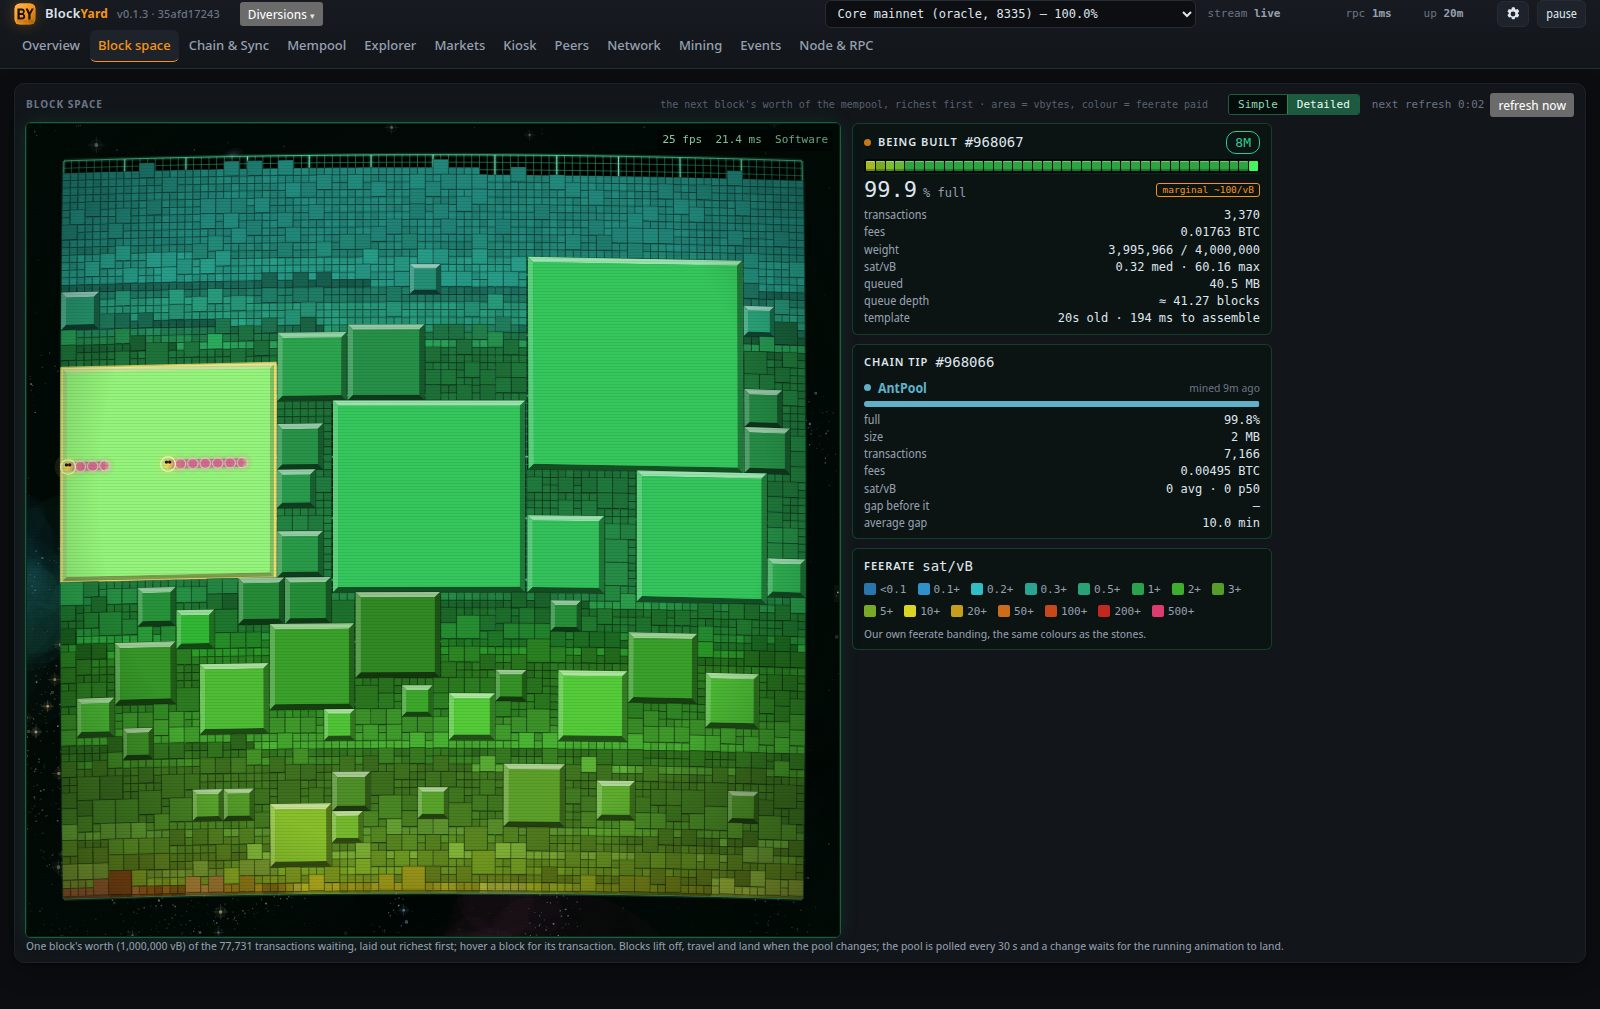
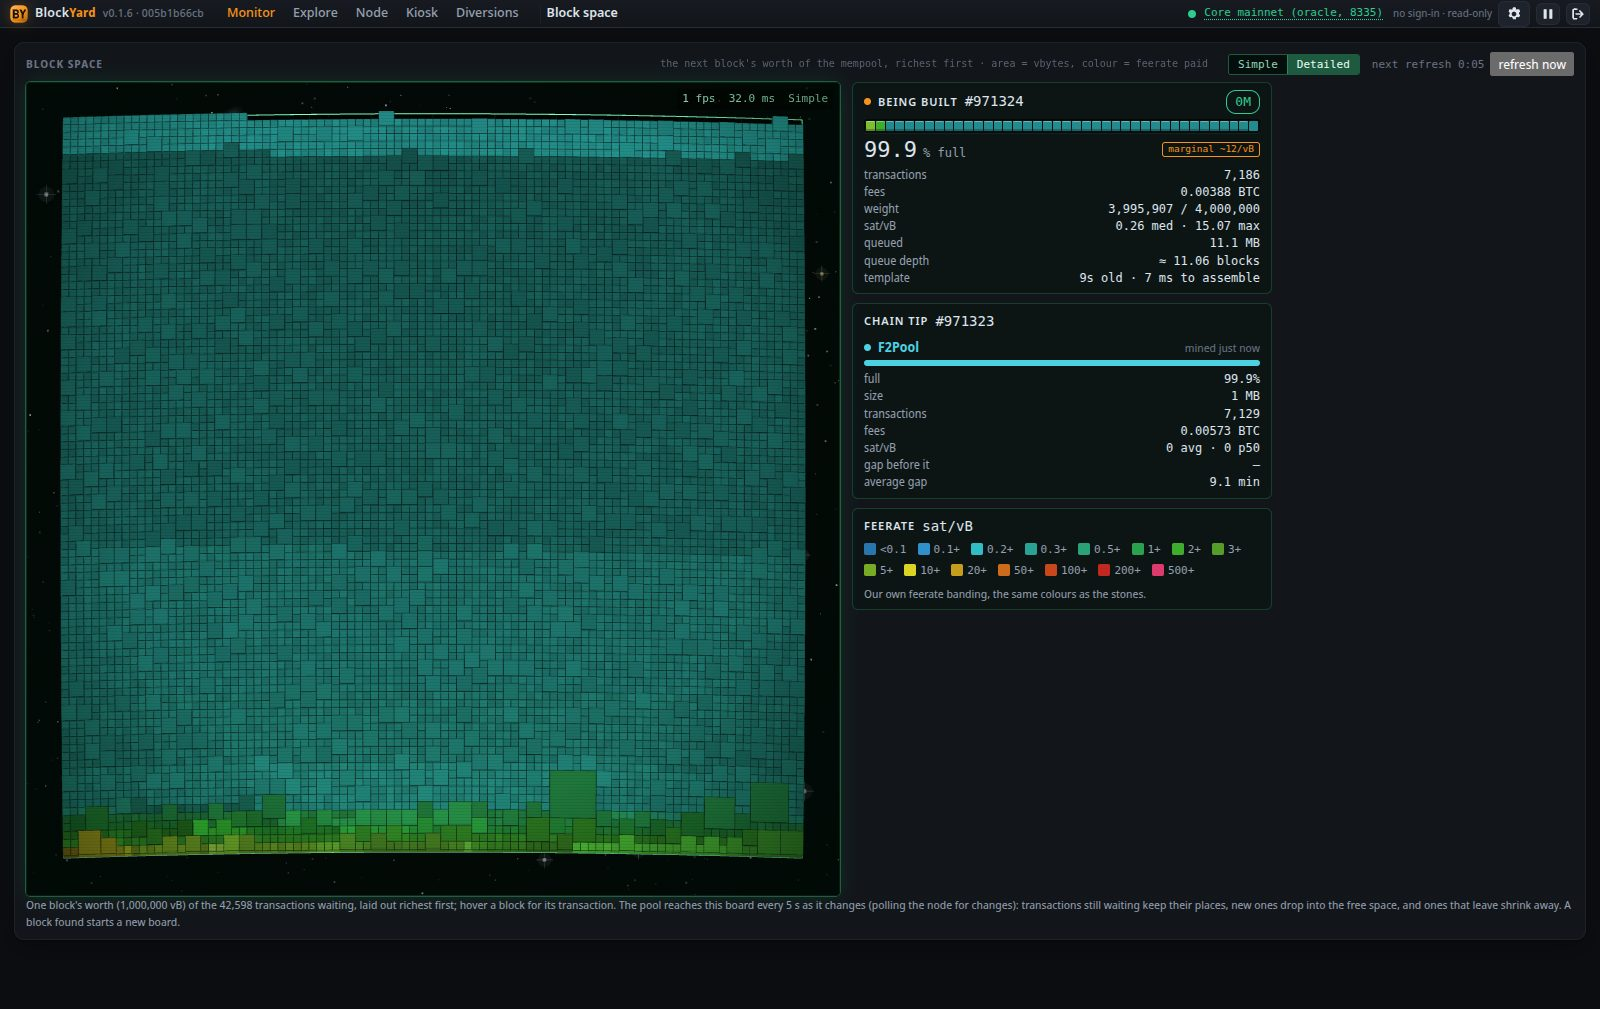
docs: screenshots re-shot at 0.1.6, and a Weather picture in the README
Overview, Markets, Kiosk, Block space and the explorer pages against the
live monitor (the menu bar, the weather ribbon on Overview, two places on
the Kiosk), plus the new Weather tab -- the conditions over the street
map of the place. The README's feature table gains the weather row.
scripts/shots.mjs reads the page from the menu item and the node from
the browser's remembered choice, and has the Weather shot.

Claude-Session: https://claude.ai/code/session_01LQYQTzW2Q98CXeK6V292ko

diff --git a/README.md b/README.md
@@ -101,7 +101,8 @@ Everything else in BlockYard works the same against Bitcoin Core; bmc is where i
 | **A board you can tune.** Neon-tube blocks, a metallic sheen or a chrome finish that mirrors a horizon, a movable lamp, a touch of perspective, a spiral galaxy behind the board, and a switch for every one of the 34 effects — in a tabbed settings panel. Stored on the server (`config/blockyard.json`), so every screen sees the same board; they change how things are *drawn*, never what is measured. | ![Neon blocks and the metallic sheen](docs/images/block-space-neon.jpg) |
 | **An explorer that looks the part.** Search a height, block hash, txid or address. Transaction pages with fee, fee rate and dollar value, feature badges, a flow diagram from inputs to outputs, and links to where every coin came from and went. **Address pages with full history and balance** — Bitcoin Core has no address index, so BlockYard builds its own from the node's block files (**a few hours** on first start, 124 GB) and keeps it current as blocks arrive. | ![Explorer transaction](docs/images/explorer-tx.jpg) |
 | **Markets.** Five exchanges' public prices: a 3D candle chart with a neon price line, a precise flat candlestick chart, an exchange table, and a bitcoinity-style order-book depth chart with change bars. Off until you tick **Enable market polling** — it is the one thing that talks to anyone but your node — and, once on, fetched by the server only while someone is looking. | ![Markets](docs/images/markets.jpg) |
-| **Kiosk.** The 3D markets board, a price panel and the block-space board side by side, full screen with one click. | ![Kiosk](docs/images/kiosk.jpg) |
+| **Local weather, opt-in.** A ribbon of the conditions, the next 24 hours and the days ahead on Overview and the Kiosk (up to three places), and a Weather tab whose map opens on your town, zooms out to a globe you can turn, and carries observed radar or the next 48 hours of forecast over the world's coasts, borders, main roads and place names -- all shipped. Press **Build street map** and the monitor cuts the streets, buildings and names of your place out of an OpenStreetMap archive and keeps them for itself: no map-tile server, no key, nothing fetched afterwards. Off until you tick it; every host it would contact is named. | ![The Weather tab: the conditions and the street map of the place](docs/images/weather.jpg) |
+| **Kiosk.** The 3D markets board, a price panel and the block-space board side by side, the weather across the top, full screen with one click. | ![Kiosk](docs/images/kiosk.jpg) |
 | **Tetrust, Blockout and Blockanoid.** Three playable games built on the same 3D engine — trust, but verify. Tetrust is Tetris: the well is the block-space board and the music is synthesised in the browser. Blockout is Breakout, where the wall is made of block-space stones and the bat follows your mouse. Blockanoid is Arkanoid: a different wall every level, silver bricks that take more than one hit, gold that takes none, and capsules that fall out of what you break — laser, wide, catch, slow, three balls, a life. All three pause when you look away and keep high scores per browser. **Scorched Yard** is Scorched Earth on the same engine: a landscape of dirt cubes that craters and falls, the original's thirty-three weapons and eleven accessories at the manual's prices, its eight computer personalities, cash and a shop between rounds, and the wind you can see. And **Wolfenstein 3D**, **DOOM** and **Quake**: the real shareware `WOLF3D.EXE` (1992, id Software, published by Apogee), `DOOM.EXE` (1993) and `QUAKE.EXE` (1996), unmodified, on a PC emulated in the browser — processor in real and protected mode, FPU, DOS and both extenders, VGA and Sound Blaster written from scratch, still with no dependencies. So if anyone asks *"well, can it run DOOM?"*, the answer is an emphatic **"Naturally. What sort of AI slop generator do you take me for?"** | ![Tetrust](docs/images/tetrust.jpg) |
 
 Also on board: a sync viewer with an honest ETA, Block flow (projected blocks, the block
